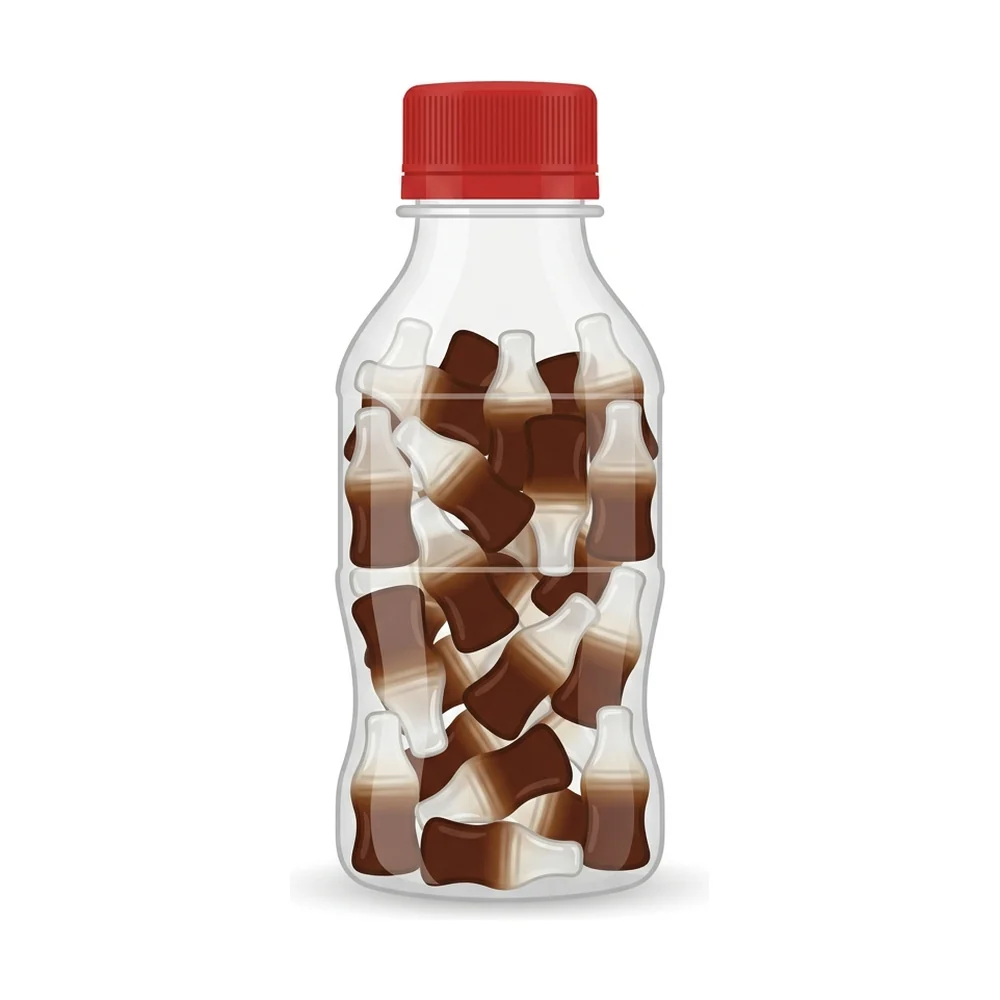
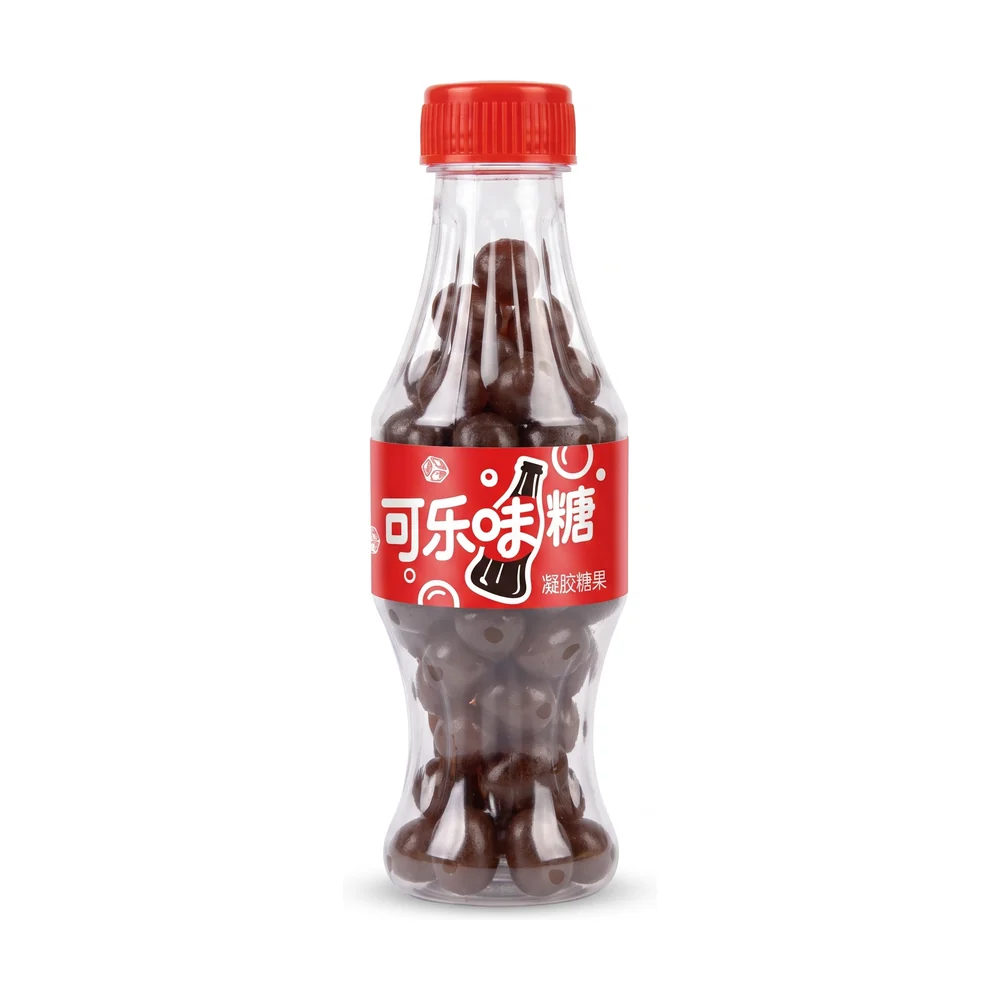
review(keo-deo): 2 products — 0 keep, 2 fixed, 0 need photo, 0 asked
Claude-Session: https://claude.ai/code/session_01DMTF5GjS3P9om8RxKa1WuX

Changed region(s): [[0.31, 0.062, 0.682, 0.93]]

diff --git a/categories/2549274-keo-deo-jelly/66672240-keo-deo-xuan-guo-le-keo-deo-vi-trai-cay-goi/description.md b/categories/2549274-keo-deo-jelly/66672240-keo-deo-xuan-guo-le-keo-deo-vi-trai-cay-goi/description.md
@@ -1,3 +1,4 @@
-Kẹo dẻo Xuan Guo Le vị trái cây.
+Kẹo que Xuan Guo Le (旋果乐) vị trái cây, nhiều que kẹo màu xếp đứng trong hộp nhựa tròn nắp xoay; trên nhãn ghi gồm 6 vị trái cây.
 
-Nhà sản xuất/thương hiệu: Xuan Guo Le
+Quy cách: 100 g · hộp
+Thương hiệu: Xuan Guo Le (旋果乐)

diff --git a/categories/2549274-keo-deo-jelly/66672193-keo-deo-cola/description.md b/categories/2549274-keo-deo-jelly/66672193-keo-deo-cola/description.md
@@ -1,3 +1,3 @@
-Kẹo dẻo hương cola, đóng trong chai nhỏ.
+Kẹo dẻo hương cola (可乐 – 凝胶糖果), viên kẹo nâu đựng trong chai nhựa trong hình chai cola, nắp vặn đỏ.
 
 Quy cách: chai
